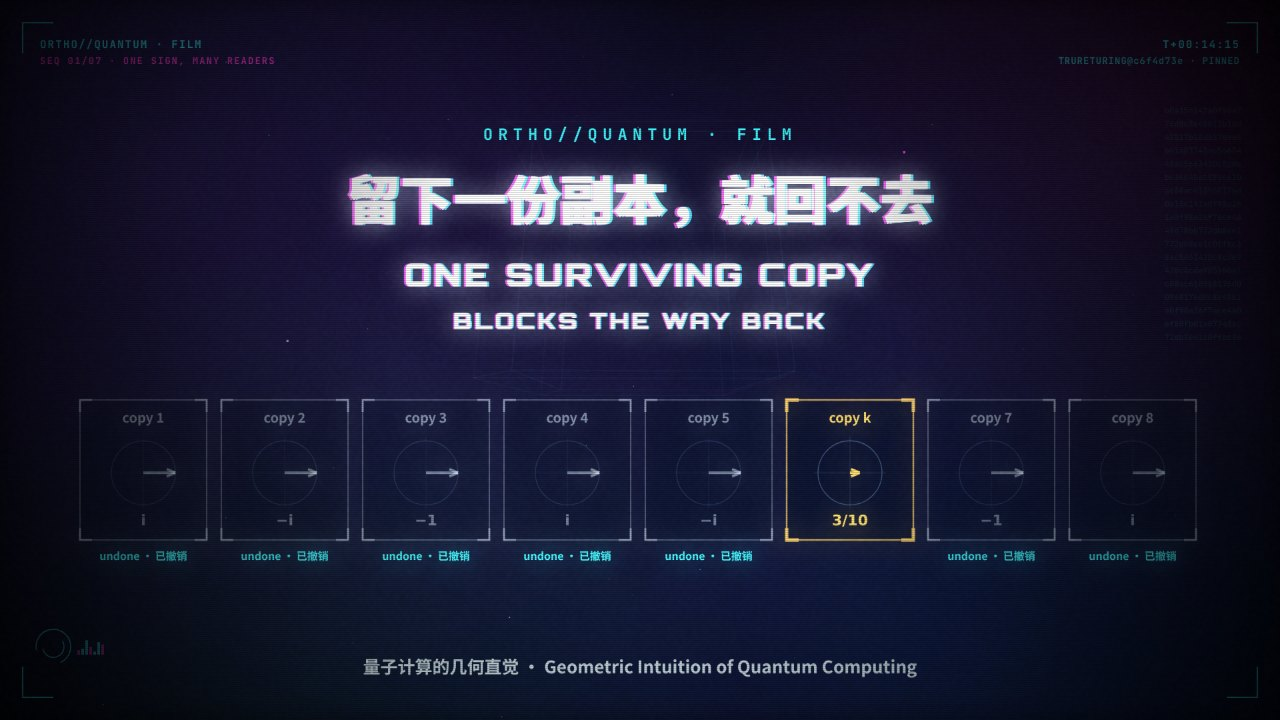
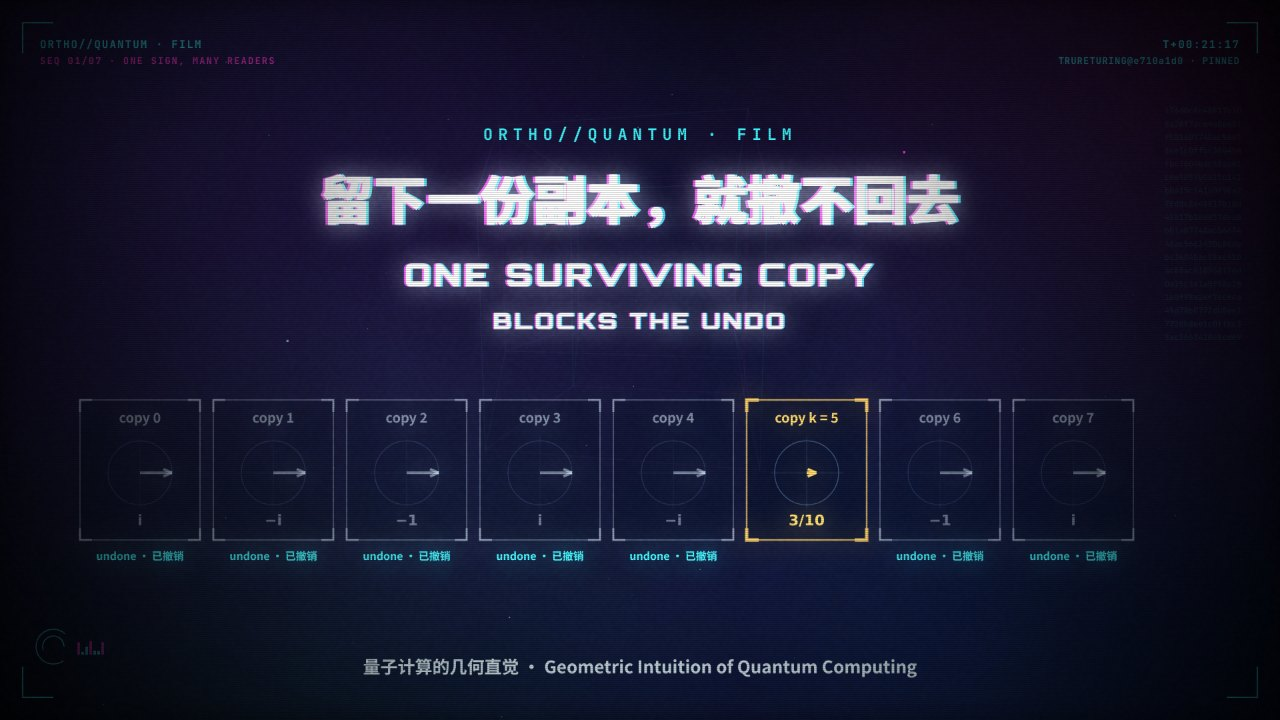
fix(films): 按复核修改 redundant-records
必须改：survivor 第 3 句与印章收窄到 Lean 陈述（撤销其余副本回不到原值，印章 NOT RESTORED）；照片比方改为 照片↔分支记录、全删↔相干复原；axes 首句与挂载过渡段不再把记录副本说成有先后之分；survivor 卡片与 edge 三栏缩窄，避开右侧 HUD。
建议改：片名改为《留下一份副本，就撤不回去》/ One surviving copy blocks the undo；开场撕页改为把记下的一笔倒着抹掉；survivor 通式改写为屏上七份副本的具体算式；副本统一从 0 编号（copy k = 5）；撤销后卡片标 net (−i)·i = 1；斜轨转动时右栏固定算例淡出并加 θ₀ = 53.1°，水平轨标签同时淡出；小字号提到 18；≠ 1/2 与 9/200 改白色；图注颜色词改为紫色 ARGUED 徽章；路标改为 (|0⟩ + |1⟩)/√2；reverse = conjugate 在 Lean 面板出现前淡出。
重建实测 2:10，film.json 与中英图注同步；check 0 错误。

Claude-Session: https://claude.ai/code/session_01FJGySq7rVWTRF4aH8AY9ro

diff --git a/books/quantum-geometry/films/redundant-records/scenes.js b/books/quantum-geometry/films/redundant-records/scenes.js
@@ -6,7 +6,7 @@
    which conjugates its overlap. K(n, c) = c I + (1 − c) n nᵀ is the unread Bloch contraction along the axis n.
 
    What each scene shows, and where it rests:
-     sign      ten readers write down a sign; one tears out a page (picture of the question; argued).
+     sign      ten readers write down a sign; one rubs their note back out (picture of the question; argued).
      write     equalSuperpositionDensity has ρ₀₁ = 1/2; a phase record with amplitudes 1 (i = 0) and i (i = 1) has
                overlap 1 · (i)* = −i; two copies give (−i)² · 1/2 = −1/2 (computed).
      undo      reversing copy zero alone: i · (−1/2) = −i/2 ≠ 1/2; reversing both: i² · (−1/2) = 1/2
@@ -213,7 +213,7 @@ function rrTitle(S) {
   const p = clamp(u / 1.3);
   txt(`${DATA.book.code} · FILM`, W / 2, 330, { size: 26, fam: F.mono, w: 700, align: 'center', c: C.cyan, a: ta, ls: 10 });
   txt(DATA.film.title_zh, W / 2, 480, { size: 88, fam: F.zh, w: 900, align: 'center', c: C.white, a: ta * clamp(p * 1.6), ab: 4 });
-  txt(scramble('ONE SURVIVING COPY BLOCKS THE WAY BACK', p, 5), W / 2, 580, { size: 40, fam: F.orb, w: 900, align: 'center', c: C.white, a: ta, ls: 4, ab: 2 });
+  txt(scramble('ONE SURVIVING COPY BLOCKS THE UNDO', p, 5), W / 2, 580, { size: 40, fam: F.orb, w: 900, align: 'center', c: C.white, a: ta, ls: 4, ab: 2 });
   txt('READERS · RECORDS · UNDO · SURVIVOR · RAILS · LIMITS', W / 2, 660, { size: 22, fam: F.mono, w: 700, align: 'center', c: C.mag, a: ta * 0.9, ls: 6 });
 }
 
@@ -234,10 +234,10 @@ SCENES.sign = S => {
   /* the sign */
   line(SG.x, SG.y + 70, SG.x, 700, C.white, a * 0.8, 8);
   box(SG.x - 200, SG.y - 70, 400, 140, C.white, a, 2.4, 'rgba(4,10,24,0.85)');
-  txt('|0⟩ + |1⟩', SG.x, SG.y + 18, { size: 48, fam: F.math, w: 700, align: 'center', c: C.white, a });
+  txt('(|0⟩ + |1⟩)/√2', SG.x, SG.y + 18, { size: 44, fam: F.math, w: 700, align: 'center', c: C.white, a });
   txt('the sign · 路标', SG.x, SG.y - 88, { size: 22, fam: F.zh, w: 700, align: 'center', c: C.dim, a });
   /* line 0: ten readers, each writes a copy */
-  const tear = Q(S, 1, 'tears out the page', 0.9);
+  const tear = Q(S, 1, 'rubs their note back out', 0.9);
   for (let j = 0; j < SG.n; j++) {
     const [rx, ry] = sgReader(j);
     const ja = a * clamp((u - lineAt(S, 0).s - 0.25 * j) / 0.4);
@@ -251,10 +251,8 @@ SCENES.sign = S => {
     else {
       fillBox(px, py, 48, 36, C.cyan, ja * 0.55 * (1 - tear));
       if (tear > 0) {
-        const fx = px + 30 * tear, fy = py - 150 * tear;
-        ctx.save(); ctx.translate(fx + 24, fy + 18); ctx.rotate(1.4 * tear);
-        fillBox(-24, -18, 48, 36, C.mag, ja * (1 - 0.8 * tear)); ctx.restore();
-        txt('torn · 撕掉', rx, ry + 92, { size: 20, fam: F.zh, w: 700, align: 'center', c: C.mag, a: ja * tear });
+        box(px, py, 48, 36, C.cyan, ja * 0.8 * tear, 1.4);
+        txt('undone · 抹回', rx, ry + 92, { size: 20, fam: F.zh, w: 700, align: 'center', c: C.cyan, a: ja * tear });
       }
     }
   }
@@ -325,15 +323,15 @@ SCENES.undo = S => {
   const u1 = Q(S, 2, 'Undo both', 0.8);
   const val = u1 > 0.5 ? '1/2' : u0 > 0.5 ? '−i/2' : '−1/2';
   rrSystem(WR.sx, WR.sy, val, a);
-  rrCard(WR.cx[0], WR.cy, WR.cw, WR.ch, 'copy 0 · 副本 0', [0, -1], u0 > 0.5 ? 'undone: × i' : 'c = −i', a, { undone: u0, focus: u0 < 0.02 && c0 > 0 ? 1 : 0 });
-  rrCard(WR.cx[1], WR.cy, WR.cw, WR.ch, 'copy 1 · 副本 1', [0, -1], u1 > 0.5 ? 'undone: × i' : 'c = −i', a, { undone: u1, focus: u0 > 0.5 && u1 < 0.5 ? 1 : 0 });
-  rrRich([['reverse = conjugate:  ', C.white], ['−i  →  i', C.cyan]], 860, 650, { size: 30, a: a * c0 * (1 - 0.6 * u0) * (1 - Q(S, 2, 'Lean checks', 0.4)) });
+  rrCard(WR.cx[0], WR.cy, WR.cw, WR.ch, 'copy 0 · 副本 0', [0, -1], u0 > 0.5 ? 'net (−i)·i = 1' : 'c = −i', a, { undone: u0, focus: u0 < 0.02 && c0 > 0 ? 1 : 0 });
+  rrCard(WR.cx[1], WR.cy, WR.cw, WR.ch, 'copy 1 · 副本 1', [0, -1], u1 > 0.5 ? 'net (−i)·i = 1' : 'c = −i', a, { undone: u1, focus: u0 > 0.5 && u1 < 0.5 ? 1 : 0 });
+  rrRich([['reverse = conjugate:  ', C.white], ['−i  →  i', C.cyan]], 860, 650, { size: 30, a: a * c0 * (1 - 0.6 * u0) * (1 - Q(S, 2, 'Undo both', 0.4)) });
   /* the two tapes */
   const ta = a * u0;
   rrTape(WR.tx, 740, [
     ['', '−1/2', C.white, 1],
     ['× i →', '−i/2', C.white, u0],
-    ['', '≠ 1/2', C.mag, Q(S, 1, 'Not one half', 0.5)]
+    ['', '≠ 1/2', C.white, Q(S, 1, 'Not one half', 0.5)]
   ], ta, 32);
   txt('copy 0 only · 只撤销第 0 份', 620, 740, { size: 20, fam: F.zh, w: 700, c: C.dim, a: ta });
   const tb = a * back0;
@@ -349,14 +347,14 @@ SCENES.undo = S => {
     panel(1180, 650, 640, 190, la, C.lean, 'FOUR NUMBERS · 四个数');
     rrLean(1200, 718, RR_LEAN.two_copy_joint_reversal_certificate, la, { size: 18 });
     rrRich([['1/2', C.white], ['  →  ', C.dim], ['−1/2', C.white], ['  →  ', C.dim], ['−i/2', C.white], ['  →  ', C.dim], ['1/2', C.lean]], 1200, 790, { size: 32, a: la });
-    txt('start · write two · undo copy 0 · undo both', 1200, 826, { size: 15, fam: F.mono, w: 700, c: C.dim, a: la });
+    txt('start · write two · undo 0 · undo both', 1200, 826, { size: 18, fam: F.mono, w: 700, c: C.dim, a: la });
   }
 };
 
 /* ======================================================================= */
 /*                              scene 4 · ONE SURVIVOR                       */
 /* ======================================================================= */
-const SV = { x0: 120, y: 200, w: 190, h: 210, gap: 22 };
+const SV = { x0: 120, y: 200, w: 180, h: 210, gap: 20 };
 const svX = l => SV.x0 + l * (SV.w + SV.gap);
 SCENES.survivor = S => {
   const u = S.u, a = rrFade(S);
@@ -368,13 +366,13 @@ SCENES.survivor = S => {
     const ca = a * clamp((u - lineAt(S, 0).s - 0.12 * l) / 0.4);
     const isK = l === RR_K;
     const ud = isK ? 0 : clamp((u - t0 - 0.18 * l) / 0.5);
-    rrCard(svX(l), SV.y, SV.w, SV.h, isK ? 'copy k' : `copy ${l + 1}`, z, RR_ROW_LABEL[l], ca, { undone: ud, focus: isK && u > t0 ? 1 : 0, R: 48, ts: 20, ls: 22, us: 16 });
+    rrCard(svX(l), SV.y, SV.w, SV.h, isK ? 'copy k = 5' : `copy ${l}`, z, RR_ROW_LABEL[l], ca, { undone: ud, focus: isK && u > t0 ? 1 : 0, R: 48, ts: 20, ls: 22, us: 16 });
   });
   const ka = a * Q(S, 0, 'except copy k', 0.6);
   txt('survivor · 幸存', svX(RR_K) + SV.w / 2, SV.y + SV.h + 64, { size: 22, fam: F.zh, w: 900, align: 'center', c: C.now, a: ka });
   /* line 1: what is left */
   const fa = a * at(S, 1, 0.6);
-  rrRich([['every other copy: |c| = 1   ⟹   result = ', C.white], ['c(k)', C.now], [' · ρ(i, j)', C.white]], 120, 560, { size: 30, a: fa });
+  rrRich([['these seven: |c| = 1   ⟹   left = ', C.white], ['c(k)', C.now], [' · ρ₀₁', C.white]], 120, 560, { size: 30, a: fa });
   const tx = rrTape(120, 622, [
     ['ρ₀₁:', '1/2', C.white, at(S, 1, 0.5, 0.8)],
     ['write →', '3i/20', C.white, at(S, 1, 0.5, 1.6)],
@@ -386,7 +384,8 @@ SCENES.survivor = S => {
   if (la > 0) {
     rrLean(120, 700, RR_LEAN.surviving_copy_blocks_reversal, la, { size: 18 });
     rrRich([['l ≠ k: |c(l)| = 1,   ', C.white], ['c(k)', C.now], [' ≠ 1,   ρ(i, j) ≠ 0   ⟹   after ≠ ρ(i, j)', C.white]], 120, 756, { size: 26, a: la });
-    stamp('NO WAY BACK', 1520, 560, Q(S, 2, 'no way back', 0.6), C.white, 40);
+    stamp('NOT RESTORED', 1500, 560, Q(S, 2, 'never brings it back', 0.6), C.white, 40);
+    txt('回不到原值', 1500, 628, { size: 26, fam: F.zh, w: 900, align: 'center', c: C.white, a: la * Q(S, 2, 'never brings it back', 0.6, 0.3) });
   }
   /* line 3: the photo picture */
   const pa = a * at(S, 3, 0.6);
@@ -397,8 +396,9 @@ SCENES.survivor = S => {
       box(px, py, 32, 54, C.argued, pa, 1.6, 'rgba(4,10,24,0.6)');
       if (!del || clamp((u - phraseAt(S, 3, 'deleted it') - 0.1 * p) / 0.3) < 0.5) fillBox(px + 6, py + 8, 20, 26, C.argued, pa * 0.7);
     }
-    txt('photo ↔ coherence · phone ↔ copy', 1210, 796, { size: 18, fam: F.mono, w: 700, c: C.argued, a: pa });
-    txt('照片 ↔ 相干 · 手机 ↔ 副本', 1210, 830, { size: 20, fam: F.zh, w: 700, c: C.argued, a: pa });
+    txt('photo ↔ branch record · phone ↔ copy', 1200, 784, { size: 17, fam: F.mono, w: 700, c: C.argued, a: pa });
+    txt('all deleted ↔ coherence back', 1200, 810, { size: 17, fam: F.mono, w: 700, c: C.argued, a: pa });
+    txt('照片 ↔ 分支记录 · 手机 ↔ 副本 · 全删 ↔ 相干复原', 1200, 840, { size: 20, fam: F.zh, w: 700, c: C.argued, a: pa });
   }
   /* line 4: the aphorism */
   const ap = a * at(S, 4, 0.6);
@@ -440,11 +440,11 @@ SCENES.axes = S => {
   }
   const P = rrPaths(th);
   /* rails */
-  const ra = a * at(S, 0, 0.6);
+  const ra = a * at(S, 0, 0.6), swing = sw > 0 && sw < 1 ? 1 : 0, fixA = 1 - clamp(sw * 12) + clamp((sw - 0.92) * 12);
   line(AX.ox - 60, AX.oy, AX.ox + 1.3 * AX.U, AX.oy, C.cyan, ra, 4);
   const [mx, my] = axP([1.15 * P.m[0], 1.15 * P.m[1]]), [nx, ny] = axP([-0.1 * P.m[0], -0.1 * P.m[1]]);
   line(nx, ny, mx, my, C.cyan, a * at(S, 1, 0.6), 4);
-  txt('flat rail n · c = 1/2', AX.ox + 1.3 * AX.U - 10, AX.oy - 16, { size: 20, fam: F.mono, w: 700, align: 'right', c: C.cyan, a: ra });
+  txt('flat rail n · c = 1/2', AX.ox + 1.3 * AX.U - 10, AX.oy - 16, { size: 20, fam: F.mono, w: 700, align: 'right', c: C.cyan, a: ra * (1 - swing) });
   txt('tilted rail m · d = 1/3', mx + 12, my + 4, { size: 20, fam: F.mono, w: 700, c: C.cyan, a: a * at(S, 1, 0.6) * (sw > 0 && sw < 1 ? 0 : 1) });
   dot(AX.ox, AX.oy, 7, 'w', ra);
   /* the start point */
@@ -470,21 +470,22 @@ SCENES.axes = S => {
   rrRich([['K(n, c) v = c v + (1 − c)(n · v) n', C.white]], px + 24, py + 76, { size: 28, a: ra });
   txt('move the fraction 1 − c of the way to the rail · 朝轨道走 1 − c 的路', px + 24, py + 112, { size: 18, fam: F.zh, w: 700, c: C.dim, a: ra });
   const r1 = a * at(S, 1, 0.6);
-  rrRich([['n = (1, 0),  c = 1/2;   m = (3/5, 4/5),  d = 1/3', C.cyan]], px + 24, py + 170, { size: 24, a: r1 });
-  rrRich([['flat first:    (0, 1) → (0, 1/2) → ', C.white], ['(4/25, 19/50)', C.white]], px + 24, py + 226, { size: 24, a: r1 * clamp(pA * 1.3) });
-  rrRich([['tilted first:  (0, 1) → (8/25, 19/25) → ', C.white, 0.85], ['(8/25, 19/50)', C.white]], px + 24, py + 270, { size: 24, a: a * clamp(pB * 1.3) });
-  rrRich([['gap = (', C.white], ['4/25', C.mag], [', 0)', C.white]], px + 24, py + 316, { size: 26, a: ga });
+  rrRich([['n = (1, 0),  c = 1/2;   m = (3/5, 4/5),  d = 1/3', C.cyan]], px + 24, py + 170, { size: 24, a: r1 * fixA });
+  txt('θ₀ = 53.1°', px + 24 + 680, py + 170, { size: 20, fam: F.mono, w: 700, c: C.cyan, a: r1 * fixA });
+  rrRich([['flat first:    (0, 1) → (0, 1/2) → ', C.white], ['(4/25, 19/50)', C.white]], px + 24, py + 226, { size: 24, a: r1 * clamp(pA * 1.3) * fixA });
+  rrRich([['tilted first:  (0, 1) → (8/25, 19/25) → ', C.white, 0.85], ['(8/25, 19/50)', C.white]], px + 24, py + 270, { size: 24, a: a * clamp(pB * 1.3) * fixA });
+  rrRich([['gap = (', C.white], ['4/25', C.mag], [', 0)', C.white]], px + 24, py + 316, { size: 26, a: ga * fixA });
   /* line 3: the Lean identity */
   const la = a * Q(S, 3, 'Lean checks', 0.6);
   if (la > 0) {
-    rrLean(px + 24, py + 380, RR_LEAN.axisContraction_commutator, la, { size: 16 });
+    rrLean(px + 24, py + 380, RR_LEAN.axisContraction_commutator, la, { size: 18 });
     rrRich([['[K(n,c), K(m,d)] = (1−c)(1−d)(n·m)(n mᵀ − m nᵀ)', C.white]], px + 24, py + 428, { size: 24, a: la });
-    rrRich([['(1/2)(2/3)(3/5) · 4/5 = ', C.white, 0.85], ['4/25', C.mag], ['   computed here', C.dim]], px + 24, py + 470, { size: 22, a: la * Q(S, 3, 'the exact gap', 0.5) });
+    rrRich([['(1/2)(2/3)(3/5) · 4/5 = ', C.white, 0.85], ['4/25', C.mag], ['   computed here', C.dim]], px + 24, py + 470, { size: 22, a: la * Q(S, 3, 'the exact gap', 0.5) * fixA });
     const lb = a * Q(S, 3, 'It vanishes', 0.6);
-    rrLean(px + 24, py + 530, RR_LEAN.axisContraction_commutator_ne_zero_of_nonparallel_nonorthogonal, lb, { size: 15 });
+    rrLean(px + 24, py + 530, RR_LEAN.axisContraction_commutator_ne_zero_of_nonparallel_nonorthogonal, lb, { size: 18 });
     txt('n ≠ 0, m not a multiple of n, n·m ≠ 0, c, d ≠ 1  ⟹  ≠ 0', px + 24, py + 572, { size: 19, fam: F.math, w: 700, c: C.white, a: lb });
     txt('n·m = 0 or m ∥ n  ⟹  0 · 平行或垂直时为零', px + 24, py + 606, { size: 19, fam: F.zh, w: 700, c: C.white, a: lb * 0.85 });
-    txt('as unread blur: unit axes, c, d ∈ [0, 1] · 未读信道：单位轴', px + 24, py + 640, { size: 15, fam: F.zh, w: 700, c: C.dim, a: lb * 0.85 });
+    txt('as unread blur: unit axes, c, d ∈ [0, 1] · 未读信道：单位轴', px + 24, py + 640, { size: 18, fam: F.zh, w: 700, c: C.dim, a: lb * 0.85 });
     /* the live sweep */
     if (sw > 0) {
       txt(`θ = ${(th / RR_DEG).toFixed(1)}°   gap = ${(P.b2[0] - P.a2[0]).toFixed(3)}`, AX.ox + 40, 210, { size: 24, fam: F.mono, w: 700, c: C.now, a: lb });
@@ -499,41 +500,41 @@ SCENES.edge = S => {
   const u = S.u, a = rrFade(S);
   if (a <= 0) return;
   badgeQ(S, [[0, null, 'computed'], [0, 'joint inverse gate', 'argued'], [1, null, 'argued'], [2, null, 'open']]);
-  const y = 210, h = 600, w = 540;
+  const y = 210, h = 600, w = 520;
   /* panel 1: conjugation is an inverse only for unit overlaps */
   const a1 = a * at(S, 0, 0.6);
   panel(120, y, w, h, a1, C.cyan, 'NOISY COPY · 带噪副本');
   rrCard(250, y + 60, 280, 240, 'c = 3/10', [0.3, 0], '|c| < 1', a1, { R: 70 });
-  rrTape(150, y + 380, [['', '1/2', C.white, 1], ['× 3/10 →', '3/20', C.white, 1], ['conj→', '9/200', C.mag, Q(S, 0, 'Noisy copies', 0.5)]], a1, 28);
+  rrTape(150, y + 380, [['', '1/2', C.white, 1], ['× 3/10 →', '3/20', C.white, 1], ['conj→', '9/200', C.white, Q(S, 0, 'Noisy copies', 0.5)]], a1, 28);
   txt('conjugating multiplies again · 共轭只会再乘一次', 150, y + 430, { size: 18, fam: F.zh, w: 700, c: C.dim, a: a1 });
   const g = a * Q(S, 0, 'joint inverse gate', 0.6);
   txt('joint inverse gate U† · 联合逆门', 150, y + 500, { size: 22, fam: F.zh, w: 700, c: C.argued, a: g });
   txt('hand-derived model · 手工推导', 150, y + 534, { size: 18, fam: F.zh, w: 700, c: C.argued, a: g * 0.85 });
   /* panel 2: the reading */
   const a2 = a * at(S, 1, 0.6);
-  panel(690, y, w, h, a2, C.argued, 'READING · 诠释');
+  panel(660, y, w, h, a2, C.argued, 'READING · 诠释');
   if (a2 > 0) {
-    for (let j = 0; j < 7; j++) { const t = (200 + 140 * j / 6) * RR_DEG; const dx = 960 + 200 * Math.cos(t), dy = y + 170 - 130 * Math.sin(t); dashed(dx, dy, 960, y + 180, C.argued, a2 * 0.35, 1.2); dot(dx, dy, 11, 'v', a2); }
-    box(900, y + 120, 120, 60, C.argued, a2, 1.8);
-    txt('fact', 960, y + 160, { size: 26, fam: F.math, w: 700, align: 'center', c: C.argued, a: a2 });
-    txt('fact = what many records agree on', 720, y + 420, { size: 20, fam: F.mono, w: 700, c: C.argued, a: a2 });
-    txt('事实 = 许多记录一致之处', 720, y + 456, { size: 22, fam: F.zh, w: 700, c: C.argued, a: a2 });
-    txt('MODEL · the book\'s reading, not a theorem', 720, y + 520, { size: 17, fam: F.mono, w: 700, c: C.argued, a: a2 * 0.9 });
-    txt('本书的诠释，不是定理', 720, y + 552, { size: 20, fam: F.zh, w: 700, c: C.argued, a: a2 * 0.9 });
+    for (let j = 0; j < 7; j++) { const t = (200 + 140 * j / 6) * RR_DEG; const dx = 920 + 200 * Math.cos(t), dy = y + 170 - 130 * Math.sin(t); dashed(dx, dy, 920, y + 180, C.argued, a2 * 0.35, 1.2); dot(dx, dy, 11, 'v', a2); }
+    box(860, y + 120, 120, 60, C.argued, a2, 1.8);
+    txt('fact', 920, y + 160, { size: 26, fam: F.math, w: 700, align: 'center', c: C.argued, a: a2 });
+    txt('fact = what many records agree on', 690, y + 420, { size: 20, fam: F.mono, w: 700, c: C.argued, a: a2 });
+    txt('事实 = 许多记录一致之处', 690, y + 456, { size: 22, fam: F.zh, w: 700, c: C.argued, a: a2 });
+    txt('MODEL · the book\'s reading, not a theorem', 690, y + 520, { size: 17, fam: F.mono, w: 700, c: C.argued, a: a2 * 0.9 });
+    txt('本书的诠释，不是定理', 690, y + 552, { size: 20, fam: F.zh, w: 700, c: C.argued, a: a2 * 0.9 });
   }
   /* panel 3: the open problem */
   const a3 = a * at(S, 2, 0.6);
-  panel(1260, y, w, h, a3, C.open, 'OPEN · 开放问题');
+  panel(1200, y, w, h, a3, C.open, 'OPEN · 开放问题');
   if (a3 > 0) {
-    const cx = 1530, cy = y + 230;
+    const cx = 1460, cy = y + 230;
     dot(cx - 110, cy, 22, 'c', a3 * 0.8); dot(cx + 110, cy, 22, 'm', a3 * 0.8);
     txt('0', cx - 110, cy + 60, { size: 26, fam: F.math, w: 700, align: 'center', c: C.white, a: a3 });
     txt('1', cx + 110, cy + 60, { size: 26, fam: F.math, w: 700, align: 'center', c: C.white, a: a3 });
     txt('?', cx, cy + 14, { size: 60, fam: F.math, w: 900, align: 'center', c: C.open, a: a3 });
-    txt('one outcome, not a blend', 1290, y + 420, { size: 20, fam: F.mono, w: 700, c: C.open, a: a3 });
-    txt('单次选支：为何只看到一个结果', 1290, y + 456, { size: 22, fam: F.zh, w: 700, c: C.open, a: a3 });
-    txt('records and blurring do not settle it', 1290, y + 520, { size: 17, fam: F.mono, w: 700, c: C.open, a: a3 * 0.9 });
-    txt('记录与模糊化都不回答这一问', 1290, y + 552, { size: 20, fam: F.zh, w: 700, c: C.open, a: a3 * 0.9 });
+    txt('one outcome, not a blend', 1230, y + 420, { size: 20, fam: F.mono, w: 700, c: C.open, a: a3 });
+    txt('单次选支：为何只看到一个结果', 1230, y + 456, { size: 22, fam: F.zh, w: 700, c: C.open, a: a3 });
+    txt('records and blurring do not settle it', 1230, y + 520, { size: 17, fam: F.mono, w: 700, c: C.open, a: a3 * 0.9 });
+    txt('记录与模糊化都不回答这一问', 1230, y + 552, { size: 20, fam: F.zh, w: 700, c: C.open, a: a3 * 0.9 });
   }
 };
 
@@ -552,10 +553,10 @@ FILM.poster = () => {
   const sc = TL.scenes[0], t = sc.end - 1.0;
   background(t, sc, 0, 6);
   drawHyper(CUBE4, [[0, 3, t * 0.21], [1, 2, t * 0.13], [2, 3, t * 0.17]], { scale: 1.2, a: 0.14, cx: 960, cy: 420, camZ: 7, lw: 1.3, dots: false });
-  RR_ROW.forEach((z, l) => rrCard(svX(l), 600, SV.w, SV.h, l === RR_K ? 'copy k' : `copy ${l + 1}`, z, RR_ROW_LABEL[l], 1, { undone: l === RR_K ? 0 : 1, focus: l === RR_K ? 1 : 0, R: 48, ts: 20, ls: 22, us: 16 }));
+  RR_ROW.forEach((z, l) => rrCard(svX(l), 600, SV.w, SV.h, l === RR_K ? 'copy k = 5' : `copy ${l}`, z, RR_ROW_LABEL[l], 1, { undone: l === RR_K ? 0 : 1, focus: l === RR_K ? 1 : 0, R: 48, ts: 20, ls: 22, us: 16 }));
   txt(DATA.film.title_zh, W / 2, 330, { size: 80, fam: F.zh, w: 900, align: 'center', c: C.white, ab: 4 });
   txt('ONE SURVIVING COPY', W / 2, 430, { size: 48, fam: F.orb, w: 900, align: 'center', c: C.white, ab: 3, ls: 5 });
-  txt('BLOCKS THE WAY BACK', W / 2, 494, { size: 34, fam: F.orb, w: 900, align: 'center', c: C.white, ab: 2, ls: 4 });
+  txt('BLOCKS THE UNDO', W / 2, 494, { size: 34, fam: F.orb, w: 900, align: 'center', c: C.white, ab: 2, ls: 4 });
   bloom(0.6);
   txt(`${DATA.book.code} · FILM`, W / 2, 210, { size: 24, fam: F.mono, w: 700, align: 'center', c: C.cyan, ls: 8 });
   txt(`${DATA.book.title.zh} · ${DATA.book.title.en}`, W / 2, 1010, { size: 26, fam: F.zh, w: 700, align: 'center', c: C.white, a: 0.9 });

diff --git a/books/quantum-geometry/en/ch33-s05-consensus-and-pointer-bases.md b/books/quantum-geometry/en/ch33-s05-consensus-and-pointer-bases.md
@@ -265,10 +265,10 @@ For the first fact, choose $i$ with $n_i\ne 0$. The outer-product equality gives
 
 In the qubit channel interpretation of §34.5.2, the axes are unit vectors and $c=\cos\alpha_n$, $d=\cos\alpha_m$ lie in $[0,1]$; the Lean result itself is an algebraic matrix statement and does not assert a CPTP realization. As an exact algebraic instance, take $\mathbf{e}=(1,0,0)$, $\mathbf{m}=(3/5,4/5,0)$, $c=1/2$, and $d=1/3$. The $(0,1)$ entries of $\mathbf{K}(\mathbf{e},c)\mathbf{K}(\mathbf{m},d)$ and $\mathbf{K}(\mathbf{m},d)\mathbf{K}(\mathbf{e},c)$ are $8/25$ and $4/25$, respectively.
 
-This pair of numbers keeps the same kind of account as the surviving copy of §34.5.3: a factor multiplied in is undone only if every copy of it is cancelled exactly, and changing the order changes what is left over. The short film below works both accounts by hand, side by side.
+The surviving copy of §34.5.3 says that every factor multiplied into the coherence must be cancelled exactly, copy by copy, or the original value does not come back. This pair of numbers says something else: for contractions along two oblique axes, the order changes where the point lands. The short film below works both accounts by hand, one after the other.
 
 ::: {.film src="redundant-records"}
-**One surviving copy blocks the way back (2 min 6 s).** The opening sign, its ten readers and the torn-out page are a picture (violet). The coherence $\rho_{01} = \frac{1}{2}$ of the even superposition is the amber matrix entry; two phase records of overlap $-i$ turn it into $-\frac{i}{2}$ and then $-\frac{1}{2}$, conjugating copy $0$ alone leaves $-\frac{i}{2}$, and conjugating both brings back $\frac{1}{2}$; these four green numbers are item 2 of [@thm-ch33-consensus-redundant-records-and-kernel]. In a row of eight copies, once the seven others, all of overlap modulus $1$, are undone, the amber survivor of overlap $\frac{3}{10}$ leaves the coherence at $\frac{3}{20}$, a worked case of item 1; the phones-and-photo picture and the line "too many hands hold it" are the book's reading, marked violet. On two cyan rails, pulling the point $(0, 1)$ halfway to the flat rail and two thirds of the way to the rail through $(\frac{3}{5}, \frac{4}{5})$ lands at $\frac{4}{25}$ or $\frac{8}{25}$ across, depending on the order, and the magenta gap $\frac{4}{25}$ is the commutator formula of [@thm-ch33-axis-contraction-commutator] evaluated at this point; as the tilted rail turns, the gap vanishes where the rails are parallel or perpendicular. The closing three panels: conjugation undoes only copies of overlap modulus $1$, and noisy copies need the joint inverse gate $U_j^\dagger$ (hand derivation, violet); reading facts as redundant records is an interpretation (violet); single-outcome selection remains an open problem (red, [@prob-ch34-single-outcome-realization]). Apart from the four green numbers, every number in the film is computed on screen.
+**One surviving copy blocks the undo (2 min 10 s).** The opening sign, its ten readers and the one who rubs their note back out are a picture, marked by the violet ARGUED badge. The coherence $\rho_{01} = \frac{1}{2}$ of the even superposition is the amber matrix entry; two phase records of overlap $-i$ turn it into $-\frac{i}{2}$ and then $-\frac{1}{2}$, conjugating copy $0$ alone leaves $-\frac{i}{2}$, and conjugating both brings back $\frac{1}{2}$; these four green numbers are item 2 of [@thm-ch33-consensus-redundant-records-and-kernel]. In a row of eight copies, once the seven others, all of overlap modulus $1$, are undone, the amber survivor of overlap $\frac{3}{10}$ leaves the coherence at $\frac{3}{20}$, a worked case of item 1 (item 1 says only that undoing the other copies does not restore the entry, not that nothing else can); the phones-and-photo picture and the line "too many hands hold it" are the book's reading, marked violet. On two cyan rails, pulling the point $(0, 1)$ halfway to the flat rail and two thirds of the way to the rail through $(\frac{3}{5}, \frac{4}{5})$ lands at $\frac{4}{25}$ or $\frac{8}{25}$ across, depending on the order, and the magenta gap $\frac{4}{25}$ is the commutator formula of [@thm-ch33-axis-contraction-commutator] evaluated at this point; as the tilted rail turns, the gap vanishes where the rails are parallel or perpendicular. The closing three panels: conjugation undoes only copies of overlap modulus $1$, and noisy copies need the joint inverse gate $U_j^\dagger$ (hand derivation, violet); reading facts as redundant records is an interpretation (violet); single-outcome selection remains an open problem (red, [@prob-ch34-single-outcome-realization]). Apart from the four green numbers, every number in the film is computed on screen.
 :::
 
 For unit axes, this commutator vanishes identically both for parallel axes ($\mathbf{n}\cdot\mathbf{m} = \pm 1$) **and for strictly orthogonal axes** ($\mathbf{n}\cdot\mathbf{m} = 0$); it is nonzero for oblique axes such as $45^\circ$ when both factors differ from $1$. Order incompatibility between $90^\circ$ $Z$ and $X$ bubbles therefore comes **not** from unread dephasing, but from **selective post-measurement updates** $\mathcal{J}_{\mathbf{n},+}(\rho) = P_{\mathbf{n},+}\rho P_{\mathbf{n},+}$ ($P_{\mathbf{n},+} = \frac{1}{2}(I_2 + \mathbf{n}\cdot\vec{\sigma})$): starting from $\frac{1}{2}I_2$, $\mathcal{J}_{X,+}(\mathcal{J}_{Z,+}(\frac{1}{2}I_2)) = \frac{1}{4}P_{X,+}$ whereas $\mathcal{J}_{Z,+}(\mathcal{J}_{X,+}(\frac{1}{2}I_2)) = \frac{1}{4}P_{Z,+}$—both branches occur with probability $\frac{1}{4}$, yet their normalized conditional endpoints diverge to $|+X\rangle$ versus $|+Z\rangle$ (with subnormalized Hilbert–Schmidt norm difference $\frac{1}{4}$). On discrete belief sets and closed Hilbert subspaces, conflict-reset order noncommutativity and unit orthogonal escape are anchored by two frozen theorems:

diff --git a/books/quantum-geometry/zh/ch33-s05-consensus-and-pointer-bases.md b/books/quantum-geometry/zh/ch33-s05-consensus-and-pointer-bases.md
@@ -265,10 +265,10 @@ $$
 
 在 §34.5.2 的单比特信道解释中，轴是单位向量，且 $c=\cos\alpha_n$、$d=\cos\alpha_m$ 位于 $[0,1]$；Lean 结果本身是代数矩阵命题，不声称某个 CPTP 实现。作为精确代数实例，取 $\mathbf{e}=(1,0,0)$、$\mathbf{m}=(3/5,4/5,0)$、$c=1/2$、$d=1/3$。$\mathbf{K}(\mathbf{e},c)\mathbf{K}(\mathbf{m},d)$ 与 $\mathbf{K}(\mathbf{m},d)\mathbf{K}(\mathbf{e},c)$ 的 $(0,1)$ 元分别为 $8/25$ 与 $4/25$。
 
-这一对数与 §34.5.3 的幸存副本是同一种账：一个乘上去的因子，只有每一份都被精确抵消，才回得到原处；先后次序一变，留下的余数也跟着变。下面的短片把两笔账并排手算一遍。
+§34.5.3 的幸存副本讲的是：乘进相干的因子必须逐份精确抵消，漏掉一份就回不到原值。这一对数讲的是另一件事：沿两根斜交轴的收缩，先后次序会改变落点。下面的短片把这两笔账依次手算一遍。
 
 ::: {.film src="redundant-records"}
-**留下一份副本，就回不去（2 分 6 秒）。** 开场的路标、十位读者与被撕掉的一页是比方（紫色）。均匀叠加态的相干 $\rho_{01} = \frac{1}{2}$ 是琥珀色的矩阵元；两份重叠为 $-i$ 的相位记录把它依次变成 $-\frac{i}{2}$ 与 $-\frac{1}{2}$，只对第 $0$ 份取共轭剩下 $-\frac{i}{2}$，两份都取共轭才回到 $\frac{1}{2}$，绿色的这四个数即 [@thm-ch33-consensus-redundant-records-and-kernel] 第 2 款。一排八份副本中，其余七份重叠模长为 $1$ 的副本都撤销后，琥珀色的幸存副本（重叠 $\frac{3}{10}$）把相干留在 $\frac{3}{20}$，是第 1 款情形的一个算例；手机与照片的比方和“握着它的手太多”一句是本书的诠释，标为紫色。两根青色轨道上，把点 $(0, 1)$ 往水平轨道拉一半、往过 $(\frac{3}{5}, \frac{4}{5})$ 的斜轨拉三分之二，两种次序的落点横坐标分别是 $\frac{4}{25}$ 与 $\frac{8}{25}$，品红的差 $\frac{4}{25}$ 正是 [@thm-ch33-axis-contraction-commutator] 的换位子公式在这一点上的值；转动斜轨时，平行与垂直处差为零。末段三栏：共轭只撤销重叠模长为 $1$ 的副本，带噪副本要靠联合逆门 $U_j^\dagger$（手工推导，紫色）；把事实读作冗余记录是诠释（紫色）；单次选支仍是开放问题（红色，[@prob-ch34-single-outcome-realization]）。除绿色四个数外，片中数字都是屏幕上的计算。
+**留下一份副本，就撤不回去（2 分 10 秒）。** 开场的路标、十位读者与倒着抹掉一笔的那一位是比方，以紫色 ARGUED 徽章标出。均匀叠加态的相干 $\rho_{01} = \frac{1}{2}$ 是琥珀色的矩阵元；两份重叠为 $-i$ 的相位记录把它依次变成 $-\frac{i}{2}$ 与 $-\frac{1}{2}$，只对第 $0$ 份取共轭剩下 $-\frac{i}{2}$，两份都取共轭才回到 $\frac{1}{2}$，绿色的这四个数即 [@thm-ch33-consensus-redundant-records-and-kernel] 第 2 款。一排八份副本中，其余七份重叠模长为 $1$ 的副本都撤销后，琥珀色的幸存副本（重叠 $\frac{3}{10}$）把相干留在 $\frac{3}{20}$，是第 1 款情形的一个算例（第 1 款只说撤销其余副本复原不了原值，不排除别的复原手段）；手机与照片的比方和“握着它的手太多”一句是本书的诠释，标为紫色。两根青色轨道上，把点 $(0, 1)$ 往水平轨道拉一半、往过 $(\frac{3}{5}, \frac{4}{5})$ 的斜轨拉三分之二，两种次序的落点横坐标分别是 $\frac{4}{25}$ 与 $\frac{8}{25}$，品红的差 $\frac{4}{25}$ 正是 [@thm-ch33-axis-contraction-commutator] 的换位子公式在这一点上的值；转动斜轨时，平行与垂直处差为零。末段三栏：共轭只撤销重叠模长为 $1$ 的副本，带噪副本要靠联合逆门 $U_j^\dagger$（手工推导，紫色）；把事实读作冗余记录是诠释（紫色）；单次选支仍是开放问题（红色，[@prob-ch34-single-outcome-realization]）。除绿色四个数外，片中数字都是屏幕上的计算。
 :::
 
 对于单位轴，这一换位子在平行（$\mathbf{n}\cdot\mathbf{m} = \pm 1$）**与严格正交**（$\mathbf{n}\cdot\mathbf{m} = 0$）两处均精确为零；在 $45^\circ$ 等斜交情形且两个因子均不等于 $1$ 时则非零。因此，$90^\circ$ 正交双泡的先后次序冲突**并非**来自未读退相干信道，而是来自**选择性条件更新（selective instrument）** $\mathcal{J}_{\mathbf{n},+}(\rho) = P_{\mathbf{n},+}\rho P_{\mathbf{n},+}$（其中 $P_{\mathbf{n},+} = \frac{1}{2}(I_2 + \mathbf{n}\cdot\vec{\sigma})$）：从最大混态 $\frac{1}{2}I_2$ 出发，先读 $Z_+$ 再读 $X_+$ 得到 $\mathcal{J}_{X,+}(\mathcal{J}_{Z,+}(\frac{1}{2}I_2)) = \frac{1}{4}P_{X,+}$，而先读 $X_+$ 再读 $Z_+$ 得到 $\mathcal{J}_{Z,+}(\mathcal{J}_{X,+}(\frac{1}{2}I_2)) = \frac{1}{4}P_{Z,+}$——两条分支发生概率同为 $\frac{1}{4}$，归一化条件终态却分别落在 $|+X\rangle$ 与 $|+Z\rangle$（未归一化希尔伯特—施密特范数差恰为 $\frac{1}{4}$）。在离散信念集合修正层面，冲突重置更新的非对易性与有限共识子空间外的单位正交逃逸则由以下两条冻结定理精确刻画：
